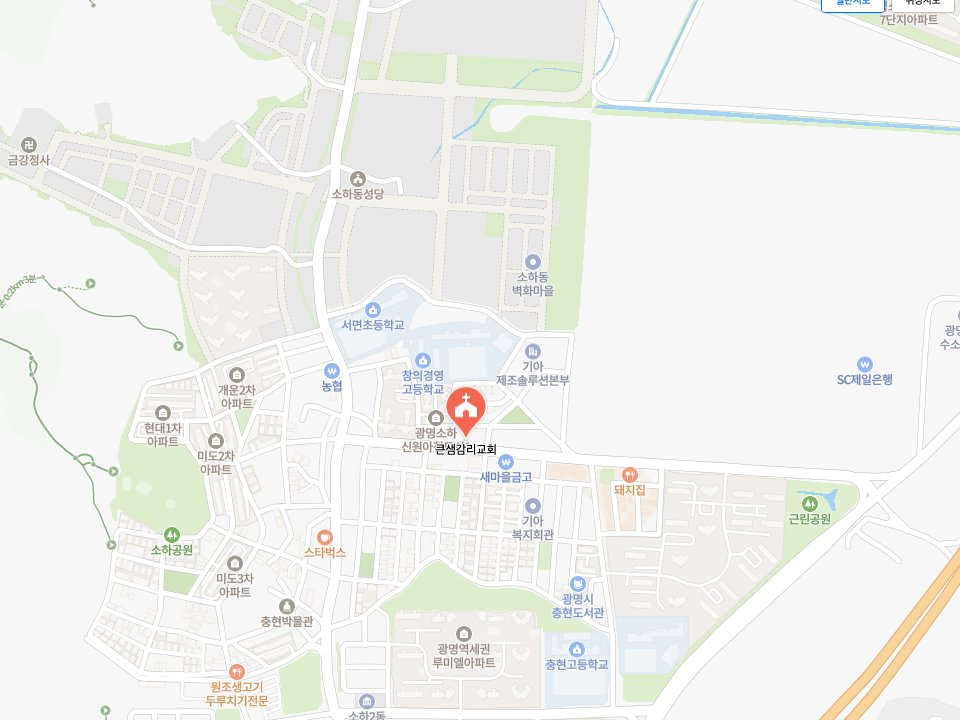
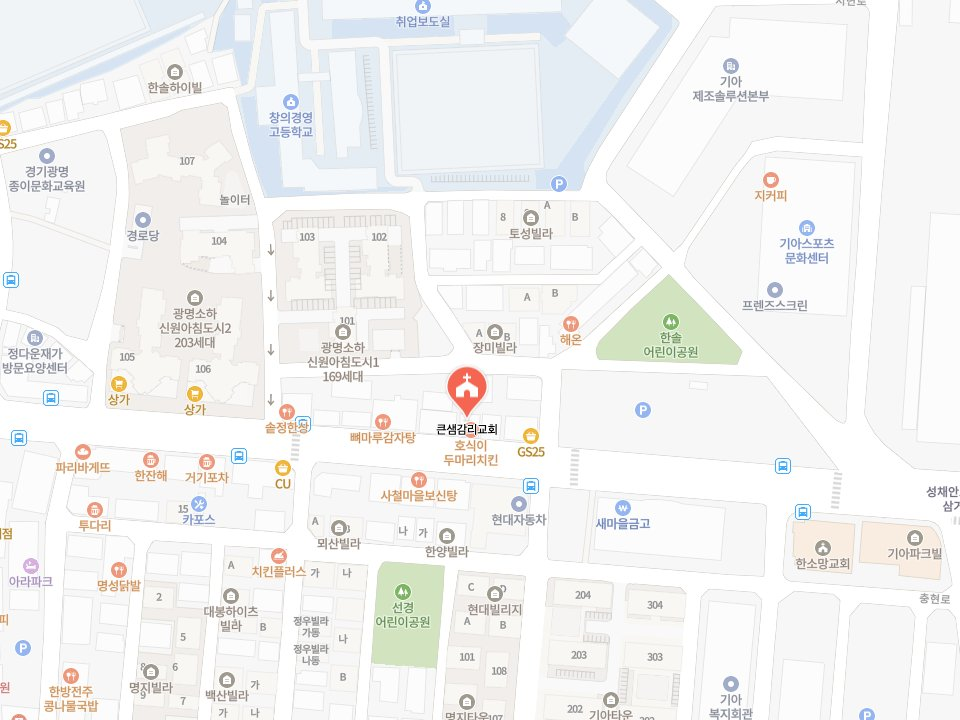
히어로 비율 조정(감리회 15px·구분선 제거)·지도 확대 재캡처
Claude-Session: https://claude.ai/code/session_01LqY2aAJsPiAJ7yRLKdrGMk

diff --git a/index.html b/index.html
@@ -107,7 +107,7 @@ figure{margin:0}
    제 내용만큼 넓어져 좁은 화면에서 글이 줄바꿈되지 않고 오른쪽으로 잘린다. */
 .hero .wrap{width:100%;min-width:0;padding-top:64px;padding-bottom:64px}
 .hero .denom{
-  font-size:13px;letter-spacing:.2em;color:var(--gold-2);margin:0 0 8px;font-weight:600;
+  font-size:15px;letter-spacing:.22em;color:var(--gold-2);margin:0 0 10px;font-weight:600;
 }
 .hero .denom-en{
   font-size:10.5px;letter-spacing:.18em;color:rgba(237,233,226,.55);margin:0 0 28px;
@@ -116,11 +116,10 @@ figure{margin:0}
   font-size:46px;margin:0 0 20px;font-weight:800;letter-spacing:-.025em;line-height:1.16;
   text-shadow:0 2px 24px rgba(0,0,0,.35);
 }
-.hero .rule{width:56px;height:2px;background:var(--gold);margin:0 auto 20px}
-.hero .slogan{font-size:19px;margin:0 0 10px;color:var(--gold);font-weight:700;text-shadow:0 1px 16px rgba(0,0,0,.45)}
-.hero .motto{font-size:14.5px;margin:0 0 16px;color:#F4F1EB;letter-spacing:.28em;text-shadow:0 1px 12px rgba(0,0,0,.4)}
+.hero .slogan{font-size:19px;margin:0 0 12px;color:var(--gold);font-weight:700;text-shadow:0 1px 16px rgba(0,0,0,.45)}
 .hero .motto{
-  font-size:14px;color:var(--gold-2);font-style:italic;margin:0;line-height:1.65;
+  font-size:14.5px;color:#F4F1EB;letter-spacing:.26em;margin:0;line-height:1.65;
+  text-shadow:0 1px 12px rgba(0,0,0,.4);
 }
 
 /* ── 예배 안내 ── */
@@ -354,7 +353,6 @@ footer h2{font-size:21px}
   <div class="wrap">
     <p class="denom">기독교대한감리회</p>
     <h1><img src="사진/web/logo.png" alt="큰샘교회 로고" class="hero-logo">큰샘교회</h1>
-    <div class="rule"></div>
     <p class="slogan">&ldquo;한반도에 은혜의 강물이 흐르게 하라!&rdquo;</p>
     <p class="motto">성경 &middot; 예배 &middot; 선교 &middot; 삶</p>
   </div>
